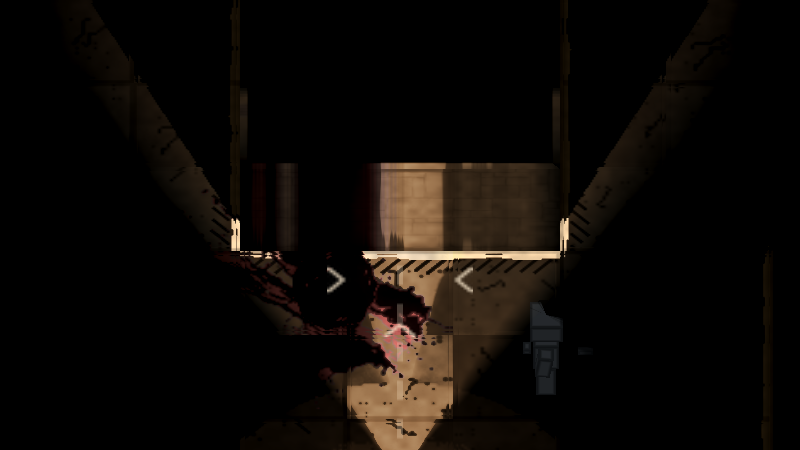
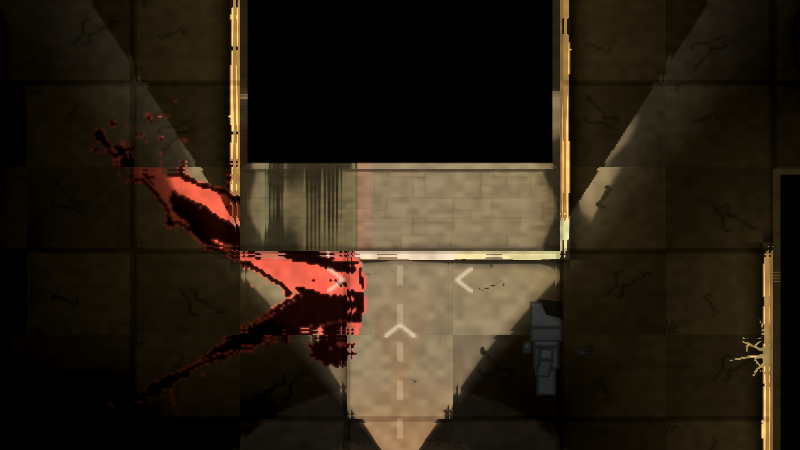
ISO10 tour 2 de loupe — les cadrages du tour 1 après 1a à 1f, l'impact au centre, la rampe du voile, un vrai éblouissement
Consigne de la session cloud : mêmes cadrages que le tour 1, impact au centre, troisième colonne à la planche (centre
200×112 ×4 au plus proche voisin), PNG à ISO Assets octet pour octet ; plus la rampe du voile, un vrai éblouissement
par la torche de J2, la fusée rouge et braise, la torche fantôme à côté d'un Braconnier, la face avec du sang au pied.

- tools/loupe.gd : l'impact centré sur l'éclat réellement posé, et le filtre de la ligne de tir qui écarte une ligne
  passant à moins de 30 px de J2 au lieu de toute direction « vers » lui (il écartait le tir sur la face du pilier, et
  la ligne de repli rejetait l'impact au bord, au tour 1 comme au premier passage du tour 2) ; loupe-rampe (voile à
  0,12 / 0,2 / 0,35 / 0,6 / 1,0 par dazzle_amount de J1 le temps de la prise, vrai chemin du voile, sans torche qui
  éblouisse, bandeau LED tenu au sommet ; le premier montage, shader réécrit à frame_pre_draw, donnait les mêmes
  chiffres — le cadrage des LED, mur dans le noir, n'a plus d'arête sous le voile dès 0,2) ;
  loupe-eblouissement (J2 tourné vers J1, torche allumée) ; loupe-face-sang relit la peinture en place.
- docs/iso/planche_loupe.py : trois colonnes, les loupes du tour 2 et leurs planches du DA.
- docs/iso/loupe/ : les PNG du tour 2, recopiés tels quels ; docs/iso/planche_loupe.jpg.

Séance (Cloître, 2560×1440, 28 loupes et bande de fluidité) : frange nulle au repos sur loupe-led et loupe-corps-j1,
[…]

diff --git a/docs/iso/planche_loupe.py b/docs/iso/planche_loupe.py
@@ -40,6 +40,9 @@ GEMINI = "docs/iso/planches_gemini"
 ## Loupe → planches du DA, chemins relatifs à --da. La frise et la fumée existent en plusieurs planches :
 ## la plus proche du cadrage (consigne de la session cloud, 15:36). E1 et E3 : la variante en pleine
 ## taille (`assets/sources/iso/`) plutôt que la planche contact où elle est réduite.
+## Tour 2 (après les familles 1a à 1f) : les dix-sept cadrages du tour 1, dans le même ordre, plus ce que la session
+## cloud a demandé de juger dessus — la rampe du voile, un vrai éblouissement, les deux fusées (rouge et braise), le
+## Braconnier et son leurre, la face du pilier avec du sang à son pied (divisée, puis la lightmap seule pour comparer).
 DA = {
     "loupe-pilier": [GEMINI + "/textures/face_mur_01.jpg"],
     "loupe-sol": [GEMINI + "/textures/sol_01.jpg"],
@@ -47,13 +50,24 @@ DA = {
     "loupe-corps-j2": [GEMINI + "/classes/frise_1_a_5.jpg"],
     "loupe-bord-cone": ["assets/sources/iso/E1_promesse_02.jpg"],
     "loupe-ombre": ["assets/sources/iso/E1_promesse_02.jpg"],
+    "loupe-face-sang-peinture": [GEMINI + "/textures/face_mur_01.jpg"],
+    "loupe-face-sang-lightmap-seule": [GEMINI + "/textures/face_mur_01.jpg"],
     "loupe-hud-hud": [],
     "loupe-hud-viseur": [],
     "loupe-led": ["assets/sources/iso/E1_promesse_02.jpg"],
+    "loupe-rampe-012": [],
+    "loupe-rampe-020": [],
+    "loupe-rampe-035": [],
+    "loupe-rampe-060": [],
+    "loupe-rampe-100": [],
+    "loupe-eblouissement-corps-j1": [GEMINI + "/classes/frise_1_a_5.jpg"],
     "loupe-balle-vol": ["assets/sources/iso/E3_flash_pro.jpg"],
     "loupe-balle-impact": ["assets/sources/iso/E3_flash_pro.jpg"],
     "loupe-fusee-suie": [GEMINI + "/objets/fusee_posee_01.jpg", GEMINI + "/effets/fumee_03.png"],
+    "loupe-fusee-suie-braise": [GEMINI + "/objets/fusee_posee_01.jpg", GEMINI + "/effets/fumee_03.png"],
     "loupe-torche-fantome": ["assets/ui/icones/gadget_torche_fantome.png"],
+    "loupe-torche-braconnier-original": ["assets/ui/icones/gadget_torche_fantome.png"],
+    "loupe-torche-braconnier-leurre": ["assets/ui/icones/gadget_torche_fantome.png"],
     "loupe-scinde-pilier": [GEMINI + "/textures/face_mur_01.jpg"],
     "loupe-scinde-corps-j1": [GEMINI + "/classes/frise_1_a_5.jpg"],
     "loupe-scinde-corps-j2": [GEMINI + "/classes/frise_1_a_5.jpg"],
@@ -123,7 +137,8 @@ def main():
                 bande.paste(v, (6 + (k % cols) * (vignette[0] + 6), 6 + (k // cols) * (vignette[1] + 6)))
             bande.save(os.path.join(dest, "fluidite_bande.jpg"), quality=92, optimize=True)
 
-    largeur = MARGE * 3 + LOUPE[0] * 2
+    # Tour 2 : trois colonnes — la loupe à 1:1, son centre 200×112 grossi ×4 au plus proche voisin, la planche du DA.
+    largeur = MARGE * 4 + LOUPE[0] * 3
     hauteur = 96 + len(rangs) * (LEGENDE + LOUPE[1] + MARGE)
     bande_planche = None
     if bande is not None:
@@ -133,16 +148,21 @@ def main():
     d = ImageDraw.Draw(planche)
     titre, petit = police(30), police(18)
     d.text((MARGE, 16), "CANDELA — LA LOUPE : LE JEU À 1:1 CONTRE LES PLANCHES DU DA", font=titre, fill=(232, 170, 80))
-    d.text((MARGE, 56), "iso2-vues @ %s + l'outil de loupe · fenêtre %s · recadrages 800×450 sans redimensionnement · "
-           "à gauche le jeu, à droite le DA" % (m.get("commit", "?"), m.get("taille_demandee", "?")), font=petit, fill=GRIS)
+    d.text((MARGE, 56), "tour 2 · iso10-finition @ %s · fenêtre %s · recadrages 800×450 sans redimensionnement · "
+           "le jeu à 1:1, son centre ×4 au plus proche voisin, le DA" % (m.get("commit", "?"), m.get("taille_demandee", "?")),
+           font=petit, fill=GRIS)
     y = 96
     for i in rangs:
         f = loupes[i]
         d.text((MARGE, y + 8), "%s — %s" % (i, f.get("titre", "")), font=petit, fill=TEXTE)
         y += LEGENDE
-        planche.paste(Image.open(os.path.join(dest, i + ".png")).convert("RGB"), (MARGE, y))
+        loupe = Image.open(os.path.join(dest, i + ".png")).convert("RGB")
+        planche.paste(loupe, (MARGE, y))
+        cx, cy = (LOUPE[0] - 200) // 2, (LOUPE[1] - 112) // 2
+        centre = loupe.crop((cx, cy, cx + 200, cy + 112)).resize((800, 448), Image.NEAREST)
+        planche.paste(centre, (MARGE * 2 + LOUPE[0], y))
         refs = [r for r in DA.get(i, []) if os.path.exists(os.path.join(a.da, r))]
-        x0 = MARGE * 2 + LOUPE[0]
+        x0 = MARGE * 3 + LOUPE[0] * 2
         if not refs:
             d.text((x0 + 12, y + 12), "aucune planche du DA pour ce cadrage", font=petit, fill=GRIS)
         else:

diff --git a/docs/ROADMAP.md b/docs/ROADMAP.md
@@ -25367,6 +25367,50 @@ seule. Voies (C) et (D) refusées, (B) dernier recours, (E) puis (A) à mesurer 
   `test_iso_vues`, `test_iso_corps` et `test_iso_geometrie` lisent désormais `COUCHES_HORS_LIGHTMAP`.
 - **Lot complet** (`./tools/run_suites.sh`, 19:06) : vert, 111 suites, sans erreur de script, 413 s.
 
+#### ISO10, tour 2 de loupe (après 1a à 1f)
+
+Consigne de la session cloud (16:19, puis 16:48, 17:08, 18:24) : les mêmes cadrages que le tour 1, l'impact au centre,
+une troisième colonne à la planche (le centre 200 × 112 grossi ×4 au plus proche voisin), les PNG à ISO Assets octet
+pour octet ; et ce qu'elle a demandé de juger dessus — la rampe du voile (cinq niveaux forcés au cadrage des LED), un
+vrai éblouissement par la torche de J2, les deux fusées posées (rouge et braise), la torche fantôme à côté d'un vrai
+Braconnier, le sang, la face du pilier avec une tache à son pied à côté de `loupe-ombre`.
+- **Outil** (`tools/loupe.gd`) :
+  - l'impact AU CENTRE : la loupe se pose sur l'éclat réellement laissé par le tir (le plus récent de `wall_impact`). Au
+    tour 1, aucune ligne de tir ne passait les filtres, `_ligne_de_tir_libre` rendait son point de repli, et l'impact
+    tombait contre le bord gauche de la loupe. ⚠ Centrer sur l'éclat ne suffisait pas (premier passage du tour 2 :
+    éclat à x = 82 à l'écran, même repli) : le filtre écartait toute direction « vers » J2 (produit scalaire > 0,2),
+    donc le tir droit sur la face sud du pilier, qui passe à 48 px de lui. Il écarte désormais une ligne qui passe à
+    moins de 30 px de J2 avant le mur ;
+  - `loupe-rampe` : le voile à 0,12 / 0,2 / 0,35 / 0,6 / 1,0, niveau posé sur `dazzle_amount` de J1 le temps de la
+    prise (divisé par le curseur « éblouissement »), sans torche qui éblouisse : c'est le vrai chemin du voile qui peint
+    (bascule plein/calme, copie d'écran, relèvement), J1 figé par la mise en scène ; le bandeau LED tenu au sommet de sa
+    respiration comme `loupe-led` (au premier passage, la rampe tombait dans le creux). Premier montage : le shader du
+    voile plein réécrit à `frame_pre_draw`. Je l'ai cru faux — plus une arête dès 0,2 — et remplacé ; **le vrai chemin
+    donne les mêmes chiffres** (arêtes 2 268 sur `loupe-led`, 34 à 0,12, 0 de 0,2 à 0,6). Le montage n'y était pour rien :
+    le cadrage des LED est un mur dans le noir (luminance moyenne 10,6/255), que le voile recouvre entièrement dès 0,2.
+    Sous le vrai éblouissement, le corps de J1 est éclairé par la torche de J2, d'où le décor encore lisible. ⚠ Ce
+    cadrage ne permet donc pas de juger l'aberration de la rampe : il n'a plus d'arête où la lire ;
+  - `loupe-eblouissement` : J2 tourné vers J1, torche allumée, loupe du corps de J1 ;
+  - `loupe-face-sang` relit la peinture en place avant sa texture : la vue iso se rallume au retour de l'écran scindé,
+    et la peinture d'avant était libérée (erreur de script au premier passage).
+- **Planche** (`docs/iso/planche_loupe.py`) : trois colonnes, loupe à 1:1, centre ×4, planche du DA.
+- **Séance** (fenêtre native 2560×1440 au Cloître, troisième passage du tour 2 ; 28 loupes, bande de fluidité, planche
+  2 464 × 15 418) :
+  - **frange (1a)** : recalage rouge/vert nul sur `loupe-led` et `loupe-corps-j1` (0,0) ; sous le vrai éblouissement
+    (J1 à 0,849), rouge +1,−3 et bleu −1,+3 — elle revient ;
+  - **rampe** : niveaux relevés 0,092 / 0,172 / 0,324 / 0,572 / 0,974 (lus après la prise, l'éblouissement forcé
+    redescendant déjà) ; luminance moyenne 10,9 → 128,0/255, arêtes 34 à 0,12 puis 0 — voir la réserve plus haut ;
+  - **impact au centre** : tir vers l'est sur le pilier voisin, éclat posé en (490 ; 463), à 2 px du point prévu ;
+  - **torche fantôme contre Braconnier (1e)** : les deux lumières toujours identiques propriété par propriété, hors le
+    masque d'ombre (11 / 15) et l'origine, par dessein ;
+  - **face avec du sang (1f)** et la texture de peinture recadrée au même lieu : les taches et l'éclat du tir y sont
+    peints ;
+  - **fluidité** : 30 images sous `--fixed-fps 60`, 12,4 à 17,4 ms (moyenne 14,0). Les deux passages précédents de la
+    même journée, sans changement du rendu entre eux, donnaient 7,9 à 10,1 puis 8,0 à 11,2 ms : la charge du poste a
+    varié (plusieurs sessions sur le Mac). À relever au premier plan si le chiffre compte.
+- Les PNG sont recopiés tels quels dans `docs/iso/loupe/` et transmis à ISO Assets par leurs chemins.
+- **Lot complet** (`./tools/run_suites.sh`, 19:27) : vert, 111 suites, sans erreur de script, 414 s.
+
 ### Ce qui attend Adrien — jalon H15
 
 Go / no-go ; ou la voie « vitrines seulement » ; tangage (60-65°), lacet

diff --git a/docs/JOURNAL_SESSIONS.md b/docs/JOURNAL_SESSIONS.md
@@ -5675,3 +5675,14 @@ référence et le plancher sont peints dans la texture, lus par la même lecture
 (face propre 1,15), sans tache froide (b/r 0,52 contre 0,65), bruit ± 37 contre ± 49. Coût d'un rendu forcé à chaque
 image dans le bruit du banc (−0,37 à +1,1 ms) ; en duel, 0,6 rendu par seconde.
 Lot complet vert à 19:06 : 111 suites, sans erreur de script, 413 s.
+
+**ISO10, tour 2 de loupe, 2026-09-15, séance lancée vers 19:10.** Session « Iso 1 Opus ». Les cadrages du tour 1 et ceux demandés
+par la session cloud au fil des familles : rampe du voile, vrai éblouissement, fusée rouge et braise, Braconnier et
+leurre, face du pilier avec du sang au pied. Impact recentré sur l'éclat réellement posé (au tour 1, la ligne de tir de
+repli le rejetait au bord). Planche à trois colonnes, centre ×4 au plus proche voisin.
+Trois passages : le premier montage de la rampe, cru faux, donnait en fait les mêmes chiffres que le vrai chemin du voile
+(le cadrage des LED, mur dans le noir, n'a plus d'arête sous le voile dès 0,2) ; l'impact n'est venu au centre qu'après
+avoir corrigé le filtre de la ligne de tir. Frange nulle au repos (LED, corps de J1), revenue sous vrai éblouissement
+(+1,−3) ; Braconnier et leurre toujours identiques ; fluidité 12,4 à 17,4 ms, contre 8 à 11 ms aux passages précédents
+sans changement du rendu — la charge du poste a varié.
+Lot complet vert à 19:27 : 111 suites, sans erreur de script, 414 s.
